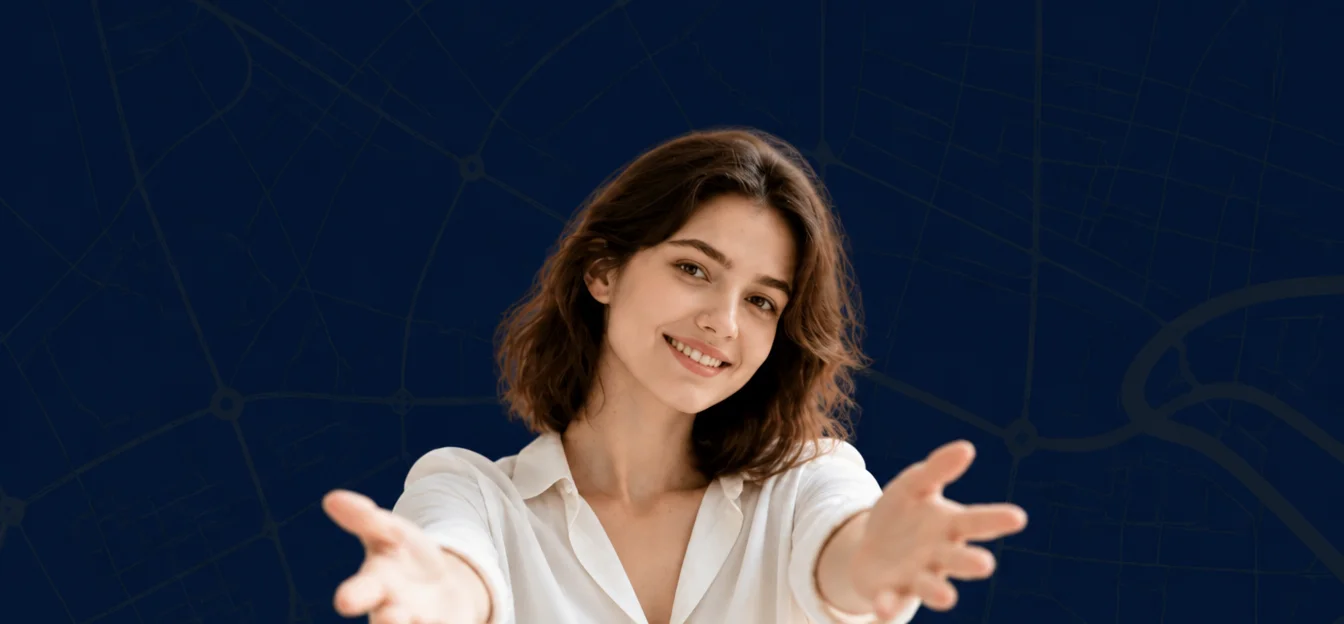
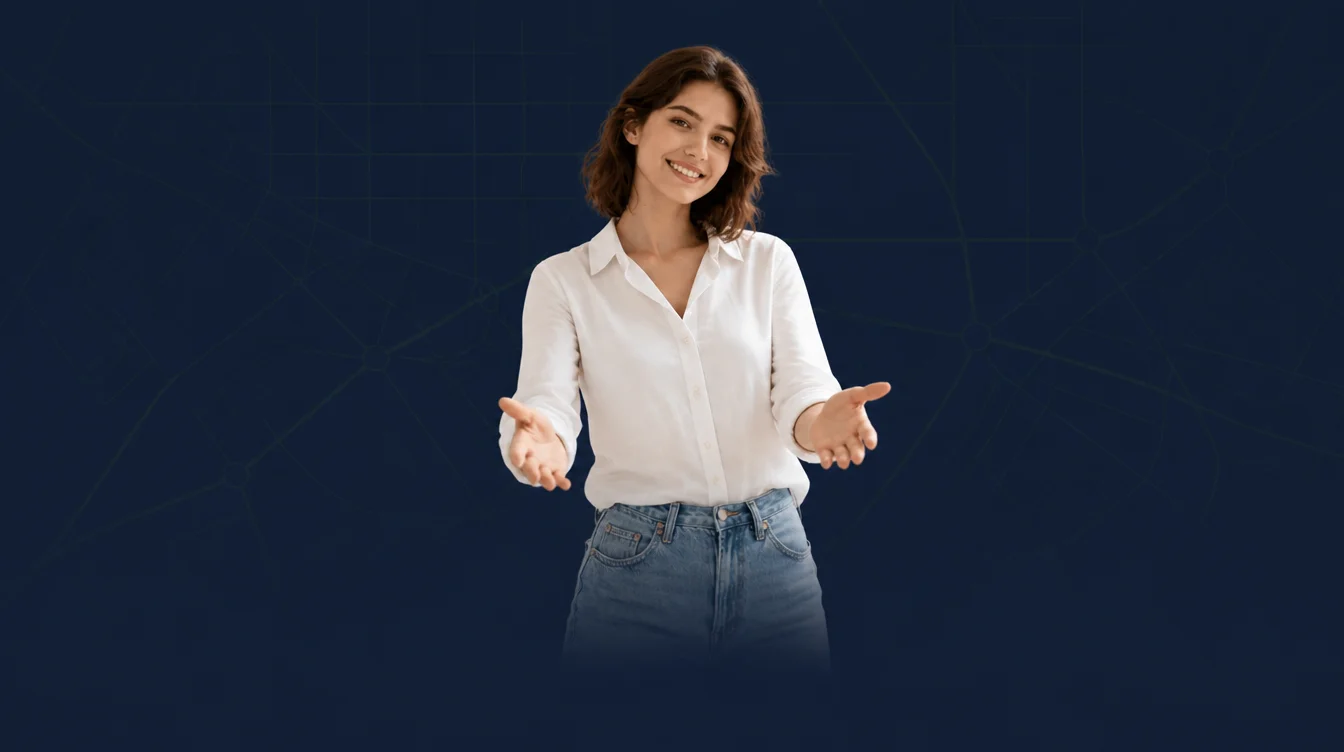
Fix hero badges landing on her face at mobile widths, pull the shot back
Root cause: the previous photo had almost no gap between her chin and
her reaching hands, so the badges (anchored to the bottom edge) ended
up overlapping her chin on narrow viewports. Regenerated the photo
zoomed out further (same identity reference) with a generous gap
between chin and hands and lots of empty background below them.

Switched the image to object-top with explicit heights per breakpoint
(verified with getBoundingClientRect at both mobile and desktop widths,
not just visually) so any cropping only ever trims the empty space at
the bottom — never her face — and positioned the badges by percentage
from the top so they land in that empty zone, at hand/waist height.
Also shrank the "Alna / Mês de Setembro" band below the photo.

Changed region(s): [[0.2188, 0.0609, 0.7812, 1.0]]

diff --git a/src/routes/index.tsx b/src/routes/index.tsx
@@ -159,17 +159,20 @@ export const Route = createFileRoute("/")({
 function CampaignHero() {
   return (
     <section className="overflow-hidden bg-[#0f2247]">
-      {/* Photo is cropped to face + chest + reaching hands (waist/legs left out on
-          purpose). Badges are anchored to the BOTTOM edge, at hand/chest height,
-          so they're always well below her face — never over it. */}
+      {/* The photo itself has a generous empty gap between her chin and her hands,
+          and even more empty background below her hands. object-top always keeps
+          that gap (and her whole face) fully in view — any cropping at wide
+          viewports only ever eats into the empty space at the bottom, never her
+          face — so the badges (positioned by % from the top, landing in that
+          empty zone) can never end up over her face. */}
       <div className="relative">
         <img
           src={heroSetembro}
           alt="Modelo da Alna Commerce sorrindo com os braços abertos, indicando as ofertas de setembro e o frete grátis"
-          className="h-[340px] w-full object-cover object-center sm:h-[420px] md:h-[500px]"
+          className="h-[480px] w-full object-cover object-top sm:h-[540px] md:h-[600px] lg:h-[660px] xl:h-[720px] 2xl:h-[780px]"
         />
 
-        <div className="absolute inset-x-0 bottom-0 flex flex-col items-center gap-3 px-4 pb-4 sm:flex-row sm:justify-center sm:gap-6 sm:pb-6">
+        <div className="absolute inset-x-0 top-[58%] flex flex-col items-center gap-3 px-4 pb-4 sm:flex-row sm:justify-center sm:gap-6 sm:pb-6">
           <div className="flex items-center gap-2.5 rounded-2xl bg-[#ec4899] px-4 py-2.5 shadow-xl sm:px-5 sm:py-3">
             <Flame className="h-6 w-6 shrink-0 text-white sm:h-7 sm:w-7" />
             <div className="text-left leading-tight">
@@ -194,16 +197,16 @@ function CampaignHero() {
         </div>
       </div>
 
-      <div className="px-4 pb-8 pt-4 text-center sm:pb-10 sm:pt-5">
-        <span className="inline-flex items-center gap-1.5 rounded-full bg-[#16a34a] px-4 py-1.5 text-xs font-bold uppercase tracking-widest text-white shadow-lg">
+      <div className="px-4 pb-4 pt-3 text-center sm:pb-5 sm:pt-4">
+        <span className="inline-flex items-center gap-1.5 rounded-full bg-[#16a34a] px-3 py-1 text-[11px] font-bold uppercase tracking-widest text-white shadow-lg sm:px-4 sm:py-1.5 sm:text-xs">
           Alna
         </span>
-        <h1 className="mt-3 text-3xl font-black uppercase leading-[0.95] text-white sm:text-5xl md:text-6xl">
+        <h1 className="mt-2 text-2xl font-black uppercase leading-[0.95] text-white sm:text-4xl md:text-5xl">
           Mês de Setembro
         </h1>
         <a
           href="#destaques"
-          className="mt-4 inline-flex items-center gap-2 rounded-md bg-white px-6 py-3 text-sm font-bold text-[#12294f] shadow-lg transition-colors hover:bg-white/90"
+          className="mt-3 inline-flex items-center gap-2 rounded-md bg-white px-5 py-2.5 text-sm font-bold text-[#12294f] shadow-lg transition-colors hover:bg-white/90"
         >
           GARANTIR MEU DESCONTO →
         </a>
